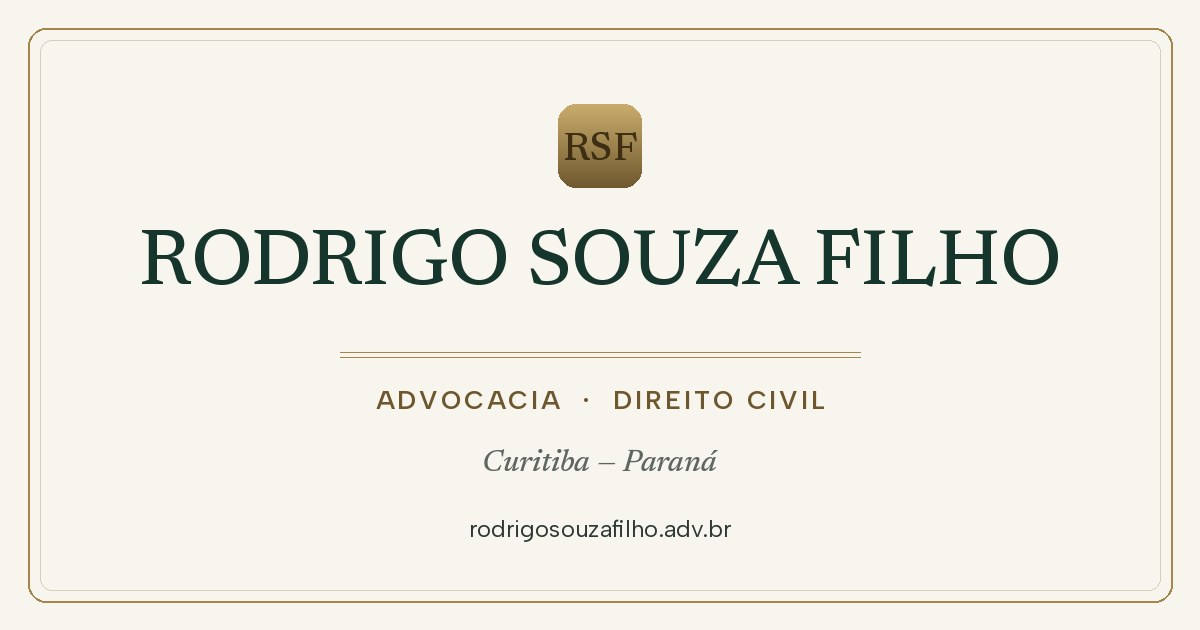
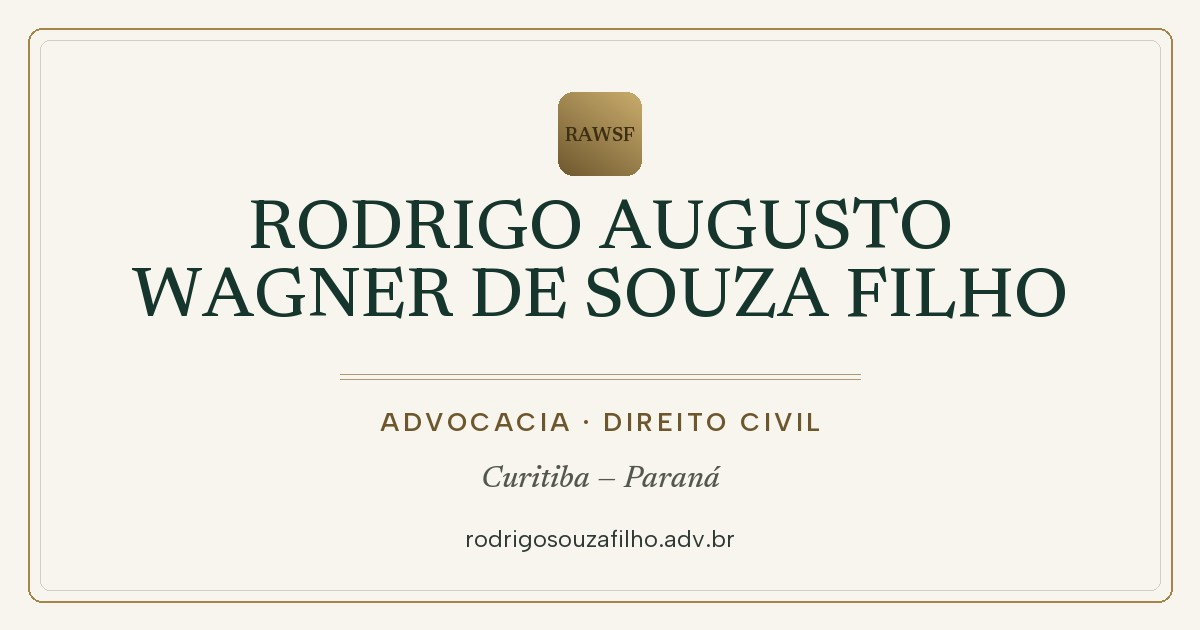
Imagem de compartilhamento com o nome completo e monograma RAWSF; instrucoes do projeto reescritas
A og-image.jpg foi refeita pelo gerador novo em docs/ferramentas/gerar-og-institucional.py, copiando o desenho antigo medido em pixels. O nome completo nao cabia em uma linha: ficou em duas, RODRIGO AUGUSTO / WAGNER DE SOUZA FILHO. CLAUDE.md e FLUXO-CLAUDE-CODE.md tinham as crases trocadas por barras invertidas, o nome antigo e caminhos de pasta que nao valem para as duas copias do repositorio.

diff --git a/CLAUDE.md b/CLAUDE.md
@@ -1,63 +1,55 @@
-# CLAUDE.md — Sites Dr. Rodrigo Souza Filho (advocacia)
+# CLAUDE.md — Site institucional
 
-## Contexto
+Site de **Rodrigo Augusto Wagner de Souza Filho**, OAB/PR 95.516, Curitiba/PR.
+Monograma RAWSF. Repositório `rodrigosouzafilho-adv-br`, publicado em https://www.rodrigosouzafilho.adv.br pela Vercel.
 
-3 sites: Institucional, Saúde, Carros (OAB/PR 95.516).
+Os três sites do escritório:
 
-## Arquitetura compartilhada
+| Site | Repositório | Endereço publicado |
+|---|---|---|
+| Institucional | `rodrigosouzafilho-adv-br` | https://www.rodrigosouzafilho.adv.br |
+| Direito à Saúde | `direito-a-saude` | https://saude.rodrigosouzafilho.adv.br |
+| Carros antigos | `regulariza-o` | https://carrosantigos.rodrigosouzafilho.adv.br |
 
-**Edite \modelos/\ — NUNCA saída gerada.**
+## Regra de ouro
+
+Editar **somente** `config.js` e `modelos/`. O build regenera os HTML da raiz e
+de `public/`:
+
+```bash
+node aplicar-config.js
+```
+
+A Vercel roda esse mesmo comando a cada envio para `main` e publica `public/`.
+Nunca editar os HTML da raiz nem de `public/`: o build sobrescreve os dois.
+
+O build também injeta `?v=<hash>` nos links de `assets/estilo.css` e
+`assets/app.js`, para o navegador de quem já visitou buscar a versão nova. Nos
+modelos o link fica limpo (`assets/estilo.css`); nunca fixar `?v=` à mão.
 
 ## Restrições fixas
 
-1. **Sem backend** (LGPD).
-2. **Provimento 205/2021** (sóbrio, sem promessa).
-3. **Nenhuma promessa de resultado**.
-4. **Nome proibido**.
-5. **Fontes self-hosted**.
+1. **Sem backend**: site 100% estático.
+2. **Provimento 205/2021 da OAB**: informativo e sóbrio. Sem promessa de
+   resultado ou de prazo, sem "consulta grátis", sem depoimento e sem número de
+   êxito. Ressalvas negativas ficam no rodapé; no corpo, linguagem positiva.
+3. **LGPD**: nada do Google carrega antes do consentimento; fontes
+   auto-hospedadas em `assets/fontes/` (nunca Google Fonts); o formulário não
+   envia nada a servidor.
+4. **Nome proibido**: o nome do projeto musical do dono não pode aparecer em
+   arquivo gerado.
+5. **Sem `Co-Authored-By`** nem atribuição a IA nos commits.
 
----
+## Antes de mexer
 
-## FLUXO DE 5 JANELAS
-
-### Você → Autoridade final (205/2021)
-
-### Janela A: Sonnet Arquiteto
-
-Institucional: \cd C:\Users\Asus\Documents\GitHub\rodrigosouzafilho-adv-br && claude --model claude-sonnet-5\
-Saúde: \cd C:\Users\Asus\Documents\GitHub\direito-a-saude && claude --model claude-sonnet-5\
-Carros: \cd C:\Users\Asus\Documents\GitHub\regulariza-o && claude --model claude-sonnet-5\
-
-Propõe nos \modelos/\. Respekta 205/2021.
-
-### Janela B: Opus 5 Contraditor
-
-Institucional: \cd C:\Users\Asus\Documents\GitHub\rodrigosouzafilho-adv-br && claude --model claude-opus-5\
-Saúde: \cd C:\Users\Asus\Documents\GitHub\direito-a-saude && claude --model claude-opus-5\
-Carros: \cd C:\Users\Asus\Documents\GitHub\regulariza-o && claude --model claude-opus-5\
-
-Questiona: viola 205/2021? Promete resultado? LGPD safe?
-
-### Janela C: Sonnet Executor
-
-Institucional: \cd C:\Users\Asus\Documents\GitHub\rodrigosouzafilho-adv-br && claude --model claude-sonnet-5 --effort medium\
-Saúde: \cd C:\Users\Asus\Documents\GitHub\direito-a-saude && claude --model claude-sonnet-5 --effort medium\
-Carros: \cd C:\Users\Asus\Documents\GitHub\regulariza-o && claude --model claude-sonnet-5 --effort medium\
-
-Implementa. Pode recusar. Valida JSON-LD.
-
-### Janela D: Fable Auditor
-
-Institucional: \cd C:\Users\Asus\Documents\GitHub\rodrigosouzafilho-adv-br && claude --model claude-fable-5 --effort ultracode\
-Saúde: \cd C:\Users\Asus\Documents\GitHub\direito-a-saude && claude --model claude-fable-5 --effort ultracode\
-Carros: \cd C:\Users\Asus\Documents\GitHub\regulariza-o && claude --model claude-fable-5 --effort ultracode\
-
-Verifica: 205/2021 OK? LGPD? Nome proibido? JSON-LD? CSP?
-
----
+- `git fetch` e conferir se a cópia local está atrás do GitHub. O repositório
+  está clonado em mais de uma pasta da máquina e o trabalho alterna entre elas.
+- A decisão é sempre do dono. Planejar não autoriza implementar; implementar não
+  autoriza commit, envio, publicação nem etiqueta.
+- Toda verificação vem classificada: REAL REMOTO, REAL LOCAL, DEMONSTRATIVO ou
+  SOMENTE ESTRUTURAL. Não afirmar que algo está no ar sem medir o que está no ar.
 
 ## Como trabalhar
 
-Português. Passe 205/2021 antes. Markdown único colável.
-
-**Cache-busting e automatico**: o build (aplicar-config.js) injeta ?v=<hash> nos links de estilo.css e app.js ao gerar public/. Nunca fixar ?v= manualmente nos modelos - o link deve ficar assets/estilo.css limpo.
+Em português, em mensagens curtas. O fluxo de janelas por modelo está em
+`FLUXO-CLAUDE-CODE.md`.

diff --git a/FLUXO-CLAUDE-CODE.md b/FLUXO-CLAUDE-CODE.md
@@ -1,36 +1,55 @@
-# Fluxo de Três Janelas — Claude Code
+# Fluxo de janelas — Claude Code
 
-## Quick Start
+A decisão final é sempre sua. Cada janela é uma sessão do Claude Code aberta na
+pasta deste repositório; o que muda é o modelo e o esforço.
 
-Abra **três terminais na mesma pasta do projeto**.
+| Janela | Modelo | Papel |
+|---|---|---|
+| A — Arquiteto | Sonnet 5, em modo plano | Propõe a mudança nos `modelos/` e no `config.js` |
+| B — Contraditor | Opus 5 | Questiona: fere o Provimento 205/2021? promete resultado? é seguro em LGPD? |
+| C — Executor | Sonnet 5, esforço `medium` | Implementa. Pode recusar. Valida o JSON-LD |
+| D — Auditor | Fable 5.1, esforço `high` | Confere 205/2021, LGPD, nome proibido, JSON-LD e CSP |
 
-### Janela A: Planejamento (Opus 5)
-\\\ash
+## Abrir cada janela
+
+Sempre a partir da pasta deste repositório:
+
+```bash
+claude --model claude-sonnet-5
+```
+
+```bash
 claude --model claude-opus-5
-# Shift+Tab → plan mode
-\\\
+```
 
-### Janela B: Execução (Sonnet 5)
-\\\ash
+```bash
 claude --model claude-sonnet-5 --effort medium
-\\\
+```
 
-### Janela C: Auditoria (Fable 5)
-\\\ash
-claude --model claude-fable-5 --effort ultracode
-\\\
+```bash
+claude --model claude-fable-5-1 --effort high
+```
 
 ## Dentro da sessão
 
-\\\
-/model opus        /model sonnet      /model fable
-/effort medium     /effort ultracode  /effort low
-\\\
+Dá para trocar sem reabrir a janela:
 
-## Resumo
+```
+/model opus
+/model sonnet
+/model fable
+/effort medium
+/effort high
+```
 
-| Modelo | Esforço | Quando | Por quê |
-|--------|---------|--------|--------|
-| Opus 5 | plan mode | Planejamento | Pensa fundo, vê arquivos reais |
-| Sonnet 5 | medium | Execução | Balanceado, economiza token |
-| Fable 5 | ultracode | Auditoria | Máximo raciocínio + workflows |
+`Shift+Tab` alterna o modo plano, em que o Claude propõe sem editar arquivo.
+
+## Ordem de trabalho
+
+1. A propõe.
+2. B contesta.
+3. Você decide.
+4. C implementa só o que você aprovou.
+5. D audita.
+6. Você autoriza o commit, depois o envio, depois a publicação — cada um é uma
+   autorização separada.
